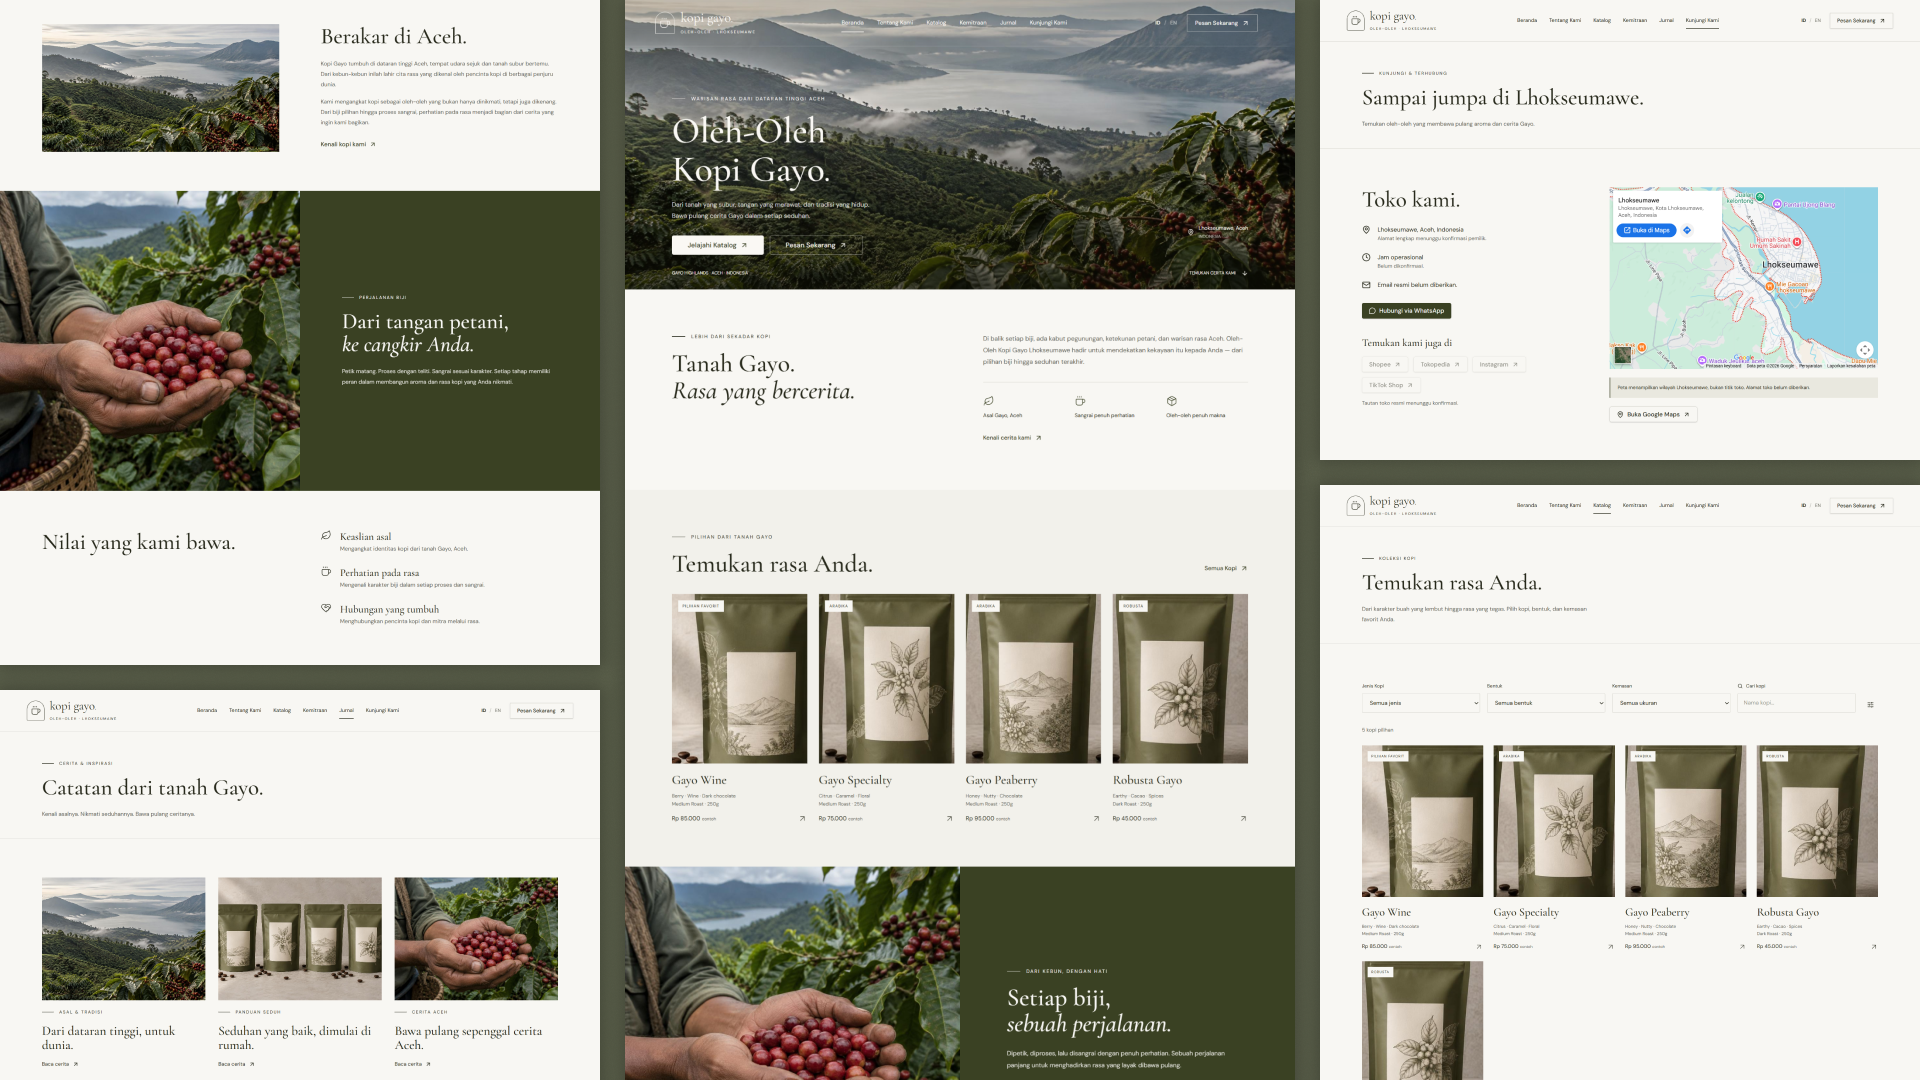
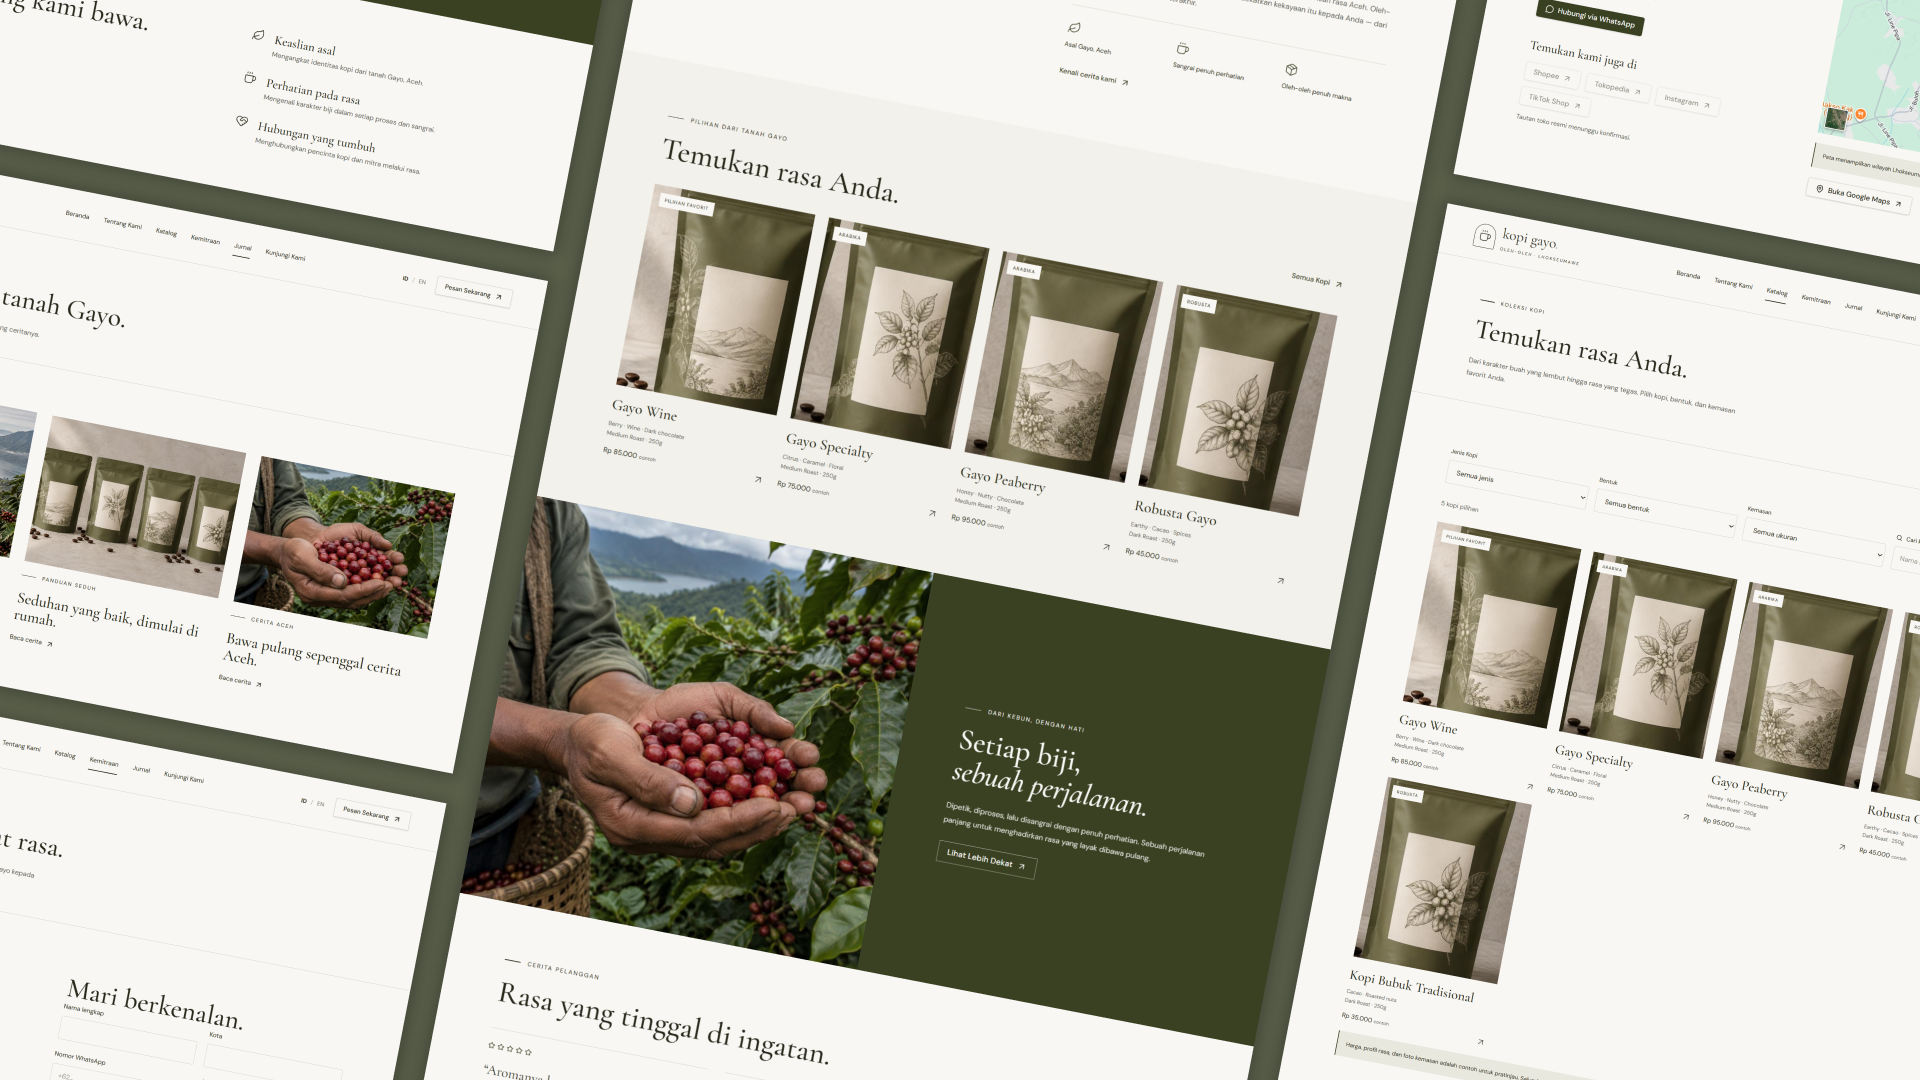
Sesuaikan kategori proyek dengan tabs dan ubah layout grid 4 card

diff --git a/src/data/caseStudies.ts b/src/data/caseStudies.ts
@@ -11,14 +11,49 @@ export const PORTFOLIO_CATEGORIES: PortfolioCategory[] = [
   { id: "data-science", label: "Data Science & AI" },
 ];
 
+const CATEGORY_ALIASES: Record<string, string[]> = {
+  "web-development": [
+    "web development",
+    "pengembangan web",
+    "web",
+    "website",
+  ],
+  "mobile-app": [
+    "mobile app",
+    "aplikasi seluler",
+    "pengembangan aplikasi seluler",
+    "mobile",
+  ],
+  "ui-ux": [
+    "ui/ux design",
+    "desain ui/ux",
+    "ui/ux",
+    "ui ux",
+    "ui ux design",
+  ],
+  "data-science": [
+    "data science & ai",
+    "sains data & ai",
+    "data science",
+    "ai",
+  ],
+};
+
 export function matchCategory(item: CaseStudy, categoryId: string): boolean {
   if (categoryId === "all") return true;
   const targetCategory = PORTFOLIO_CATEGORIES.find((c) => c.id === categoryId);
   if (!targetCategory) return true;
-  const label = targetCategory.label.toLowerCase();
 
-  const primaryMatch = item.category?.toLowerCase() === label;
-  const multiMatch = item.categories?.some((c) => c.toLowerCase() === label);
+  const validTerms = CATEGORY_ALIASES[categoryId] ?? [targetCategory.label.toLowerCase()];
+
+  const isMatch = (str?: string) => {
+    if (!str) return false;
+    const s = str.trim().toLowerCase();
+    return validTerms.includes(s);
+  };
+
+  const primaryMatch = isMatch(item.category);
+  const multiMatch = item.categories?.some((c) => isMatch(c));
 
   return Boolean(primaryMatch || multiMatch);
 }
@@ -59,11 +94,10 @@ export const caseStudies: CaseStudy[] = [
   {
     slug: "kari-kambing-cb-sp-ektreun",
     name: "Kari Kambing CB SP Ektreun",
-    category: "Pengembangan Web",
+    category: "Web Development",
     categories: [
-      "Pengembangan Web",
-      "Desain UI/UX",
-      "Katalog Menu Digital"
+      "Web Development",
+      "UI/UX Design",
     ],
     type: "Website Profil Rumah Makan dan Katalog Menu",
     image: "/Mockup Kari Kambing.png",
@@ -76,11 +110,11 @@ export const caseStudies: CaseStudy[] = [
   {
     slug: "smartumkm",
     name: "SmartUMKM - Dashboard Manajemen Usaha",
-    category: "Pengembangan Web",
+    category: "Web Development",
     categories: [
-      "Pengembangan Web",
-      "Dashboard Analitik",
-      "Manajemen Bisnis"
+      "Web Development",
+      "UI/UX Design",
+      "Data Science & AI",
     ],
     type: "Platform Manajemen Usaha Terintegrasi",
     image: "/Mockup Smart UMKM.png",
@@ -93,11 +127,10 @@ export const caseStudies: CaseStudy[] = [
   {
     slug: "kopi-gayo",
     name: "Kopi Gayo - Website Kopi Lokal Aceh",
-    category: "Pengembangan Web",
+    category: "Web Development",
     categories: [
-      "Pengembangan Web",
-      "Desain UI/UX",
-      "E-Commerce"
+      "Web Development",
+      "UI/UX Design",
     ],
     type: "Website Profil Bisnis dan Katalog Produk",
     image: "/Mockup Kopi Gayo.png",
@@ -110,11 +143,10 @@ export const caseStudies: CaseStudy[] = [
   {
     slug: "sahamiq",
     name: "SAHAMIQ - Dashboard Analisis Saham",
-    category: "Pengembangan Web",
+    category: "Web Development",
     categories: [
-      "Pengembangan Web",
-      "Analisis Data Keuangan",
-      "Visualisasi Data"
+      "Web Development",
+      "Data Science & AI",
     ],
     type: "Platform Analisis dan Monitoring Saham",
     image: "/Mockup Sahamiq (2).png",
@@ -127,11 +159,10 @@ export const caseStudies: CaseStudy[] = [
   {
     slug: "chatku",
     name: "Chatku - Aplikasi Pesan Aman",
-    category: "Pengembangan Aplikasi Seluler",
+    category: "Mobile App",
     categories: [
-      "Aplikasi Seluler",
-      "Desain UI/UX",
-      "Keamanan Digital"
+      "Mobile App",
+      "UI/UX Design",
     ],
     type: "Aplikasi Chat dan Komunikasi Aman",
     image: "/Mockup Chatku (1).png",
@@ -144,11 +175,10 @@ export const caseStudies: CaseStudy[] = [
   {
     slug: "dashboard-monitoring-desa",
     name: "MONTHLAB",
-    category: "Pengembangan Web",
+    category: "Web Development",
     categories: [
-      "Pengembangan Web",
-      "Pengolahan Data Excel",
-      "Visualisasi Data"
+      "Web Development",
+      "Data Science & AI",
     ],
     type: "Aplikasi Dashboard Interaktif",
     image: "/Mockup Monthlab.png",
@@ -161,20 +191,20 @@ export const caseStudies: CaseStudy[] = [
   {
     slug: "baked-goods",
     name: "Ulvoria",
-    category: "Produk Harian",
-    categories: ["Baked Goods", "Kualitas Premium"],
-    type: "Produk Patisserie",
+    category: "Web Development",
+    categories: ["Web Development", "UI/UX Design"],
+    type: "Website Patisserie dan Katalog Digital",
     image: "/Mocukup_Ulvoria_v2 (1).png",
     color: "from-[#75a8ff] to-[#002365]",
     beforeImage: "/services/baked-goods-before.png",
     afterImage: "/services/baked-goods-after.png",
-    text: "Ulvoria menghadirkan pilihan baked goods dengan perhatian pada kualitas bahan, tekstur, dan cita rasa. Setiap sajian dirancang untuk memberikan kenikmatan dalam setiap gigitan, baik untuk menemani waktu santai maupun melengkapi momen bersama orang terdekat.",
+    text: "Website Ulvoria dirancang untuk menghadirkan pengalaman digital yang memikat bagi penikmat baked goods premium. Menampilkan katalog produk patisserie pilihan, informasi bahan berkualitas, serta pemesanan praktis, website ini memudahkan pelanggan menikmati sajian istimewa kapan saja.",
   },
   {
     slug: "resto",
     name: "Restoran Seluler dengan Pengenalan Wajah",
-    category: "Aplikasi Seluler",
-    categories: ["Aplikasi Seluler", "Desain UI/UX", "Sains Data & AI"],
+    category: "Mobile App",
+    categories: ["Mobile App", "UI/UX Design", "Data Science & AI"],
     type: "Aplikasi Seluler & AI",
     image: "/Resto.png",
     color: "from-[#ffe400] to-[#ffb700]",
@@ -185,8 +215,8 @@ export const caseStudies: CaseStudy[] = [
   {
     slug: "arunika-finance",
     name: "Penjualan Pulsa",
-    category: "Pengembangan Web",
-    categories: ["Pengembangan Web", "Desain UI/UX"],
+    category: "Web Development",
+    categories: ["Web Development", "UI/UX Design"],
     type: "Aplikasi Web",
     image: "/Pulsa.png",
     color: "from-[#75a8ff] to-[#002365]",
@@ -197,8 +227,8 @@ export const caseStudies: CaseStudy[] = [
   {
     slug: "time-management",
     name: "Sistem Informasi Manajemen Waktu Belajar (SIM)",
-    category: "Pengembangan Web",
-    categories: ["Pengembangan Web"],
+    category: "Web Development",
+    categories: ["Web Development"],
     type: "Aplikasi Web",
     image: "/SIM.png",
     color: "from-[#0e9f85] to-[#002365]",
@@ -209,8 +239,8 @@ export const caseStudies: CaseStudy[] = [
   {
     slug: "ticket-booking",
     name: "Sistem Pemesanan Tiket Film Berbasis Seluler",
-    category: "Aplikasi Seluler",
-    categories: ["Aplikasi Seluler", "Desain UI/UX"],
+    category: "Mobile App",
+    categories: ["Mobile App", "UI/UX Design"],
     type: "Aplikasi Seluler",
     image: "/bioskop.png",
     color: "from-[#5eead4] to-[#002365]",
@@ -244,8 +274,8 @@ export const caseStudies: CaseStudy[] = [
   {
     slug: "Donasi",
     name: "Situs Web Donasi",
-    category: "Pengembangan Web",
-    categories: ["Pengembangan Web", "Desain UI/UX"],
+    category: "Web Development",
+    categories: ["Web Development", "UI/UX Design"],
     type: "Platform Web",
     image: "/Donasi.png",
     color: "from-[#ffe400] to-[#ffb700]",

diff --git a/src/pages/CaseStudyPage.tsx b/src/pages/CaseStudyPage.tsx
@@ -237,6 +237,11 @@ export default function CaseStudyPage() {
         <div className="relative z-10 mx-auto w-full max-w-6xl px-5 pb-32 pt-44 lg:px-8">
           <div className="cs-rise mt-6">
             <div className="flex flex-wrap items-center gap-3">
+              {study.category && (
+                <span className="inline-flex items-center gap-2 rounded-full border border-teal-400/30 bg-teal-400/10 px-4 py-1.5 text-xs font-semibold text-teal-300">
+                  {study.category}
+                </span>
+              )}
               {study.status && (
                 <span className="cs-accent-grad inline-flex items-center gap-2 rounded-full px-4 py-1.5 text-xs font-semibold text-white" data-testid="case-status">
                   <span className="size-1.5 animate-pulse rounded-full bg-white" /> {study.status}

diff --git a/src/pages/ProjectsPage.tsx b/src/pages/ProjectsPage.tsx
@@ -112,11 +112,11 @@ export default function ProjectsPage() {
             </p>
           </div>
 
-          {/* Grid Proyek */}
+          {/* Grid Proyek (1 baris 4 card di desktop) */}
           {filteredStudies.length > 0 ? (
-            <div className="grid gap-6 md:grid-cols-2" data-testid="projects-grid">
+            <div className="grid gap-5 sm:grid-cols-2 lg:grid-cols-4" data-testid="projects-grid">
               {filteredStudies.map((item, index) => (
-                <ProjectCard key={item.slug} item={item} index={index} />
+                <ProjectCard key={item.slug} item={item} index={index} compact />
               ))}
             </div>
           ) : (
